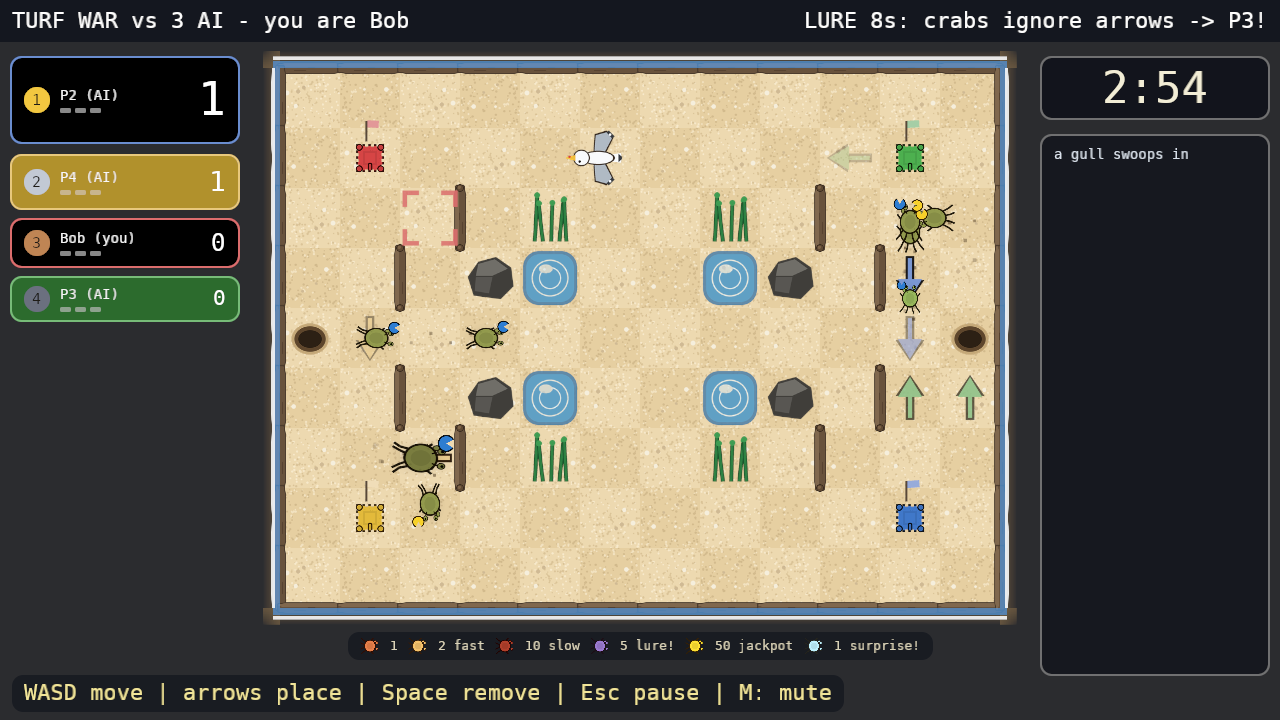
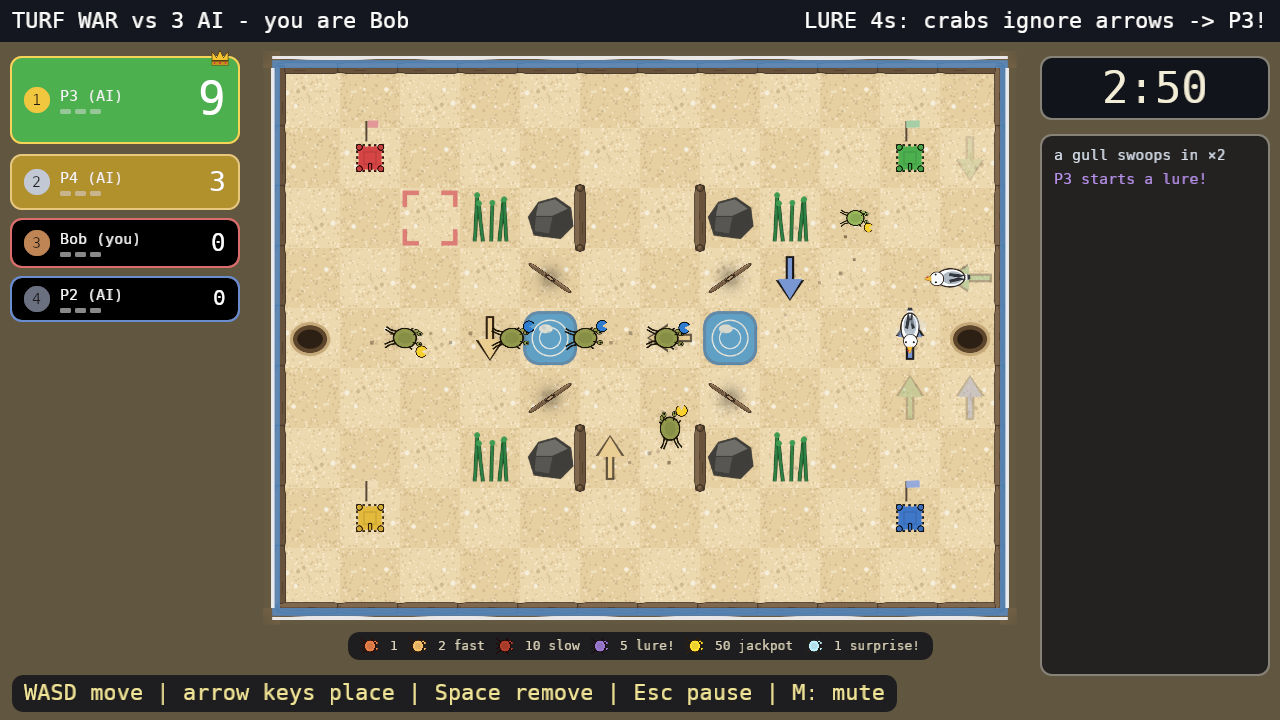
Retake the README's five pictures, and correct the two counts they contradicted
Every one of them predated the beach postcard, so the menu and the stage
list stood on a flat dark field the game no longer draws. The Old Mill
was the furthest behind: it still said "Signposts: 2/2" over a campaign
of 82, where the build says arrows and 110. Autoplay is deterministic, so
that one is framed on the same moment as the shot it replaces, three
seconds in with the crabs strung across the turnstile.

Turf War and the lure are a bots match on a fresh seed each run, so they
were taken until they said what their captions promise: a crowned
leaderboard over grown castles and a filled event feed for the one, six
crabs turned green and converging for the other. A thirty-second take of
Turf War caught a real lure banner across the whole board, which is the
right moment and the wrong picture.

Two lines then disagreed with the images beside them. The campaign has
been a hundred levels for a while and the README still said eighty-two;
the trophy shelf became fifty this morning and the README still said
thirty-two.

diff --git a/README.md b/README.md
@@ -132,7 +132,7 @@ wins.
 
 ![The landing menu: a still postcard with ambient beach critters](docs/screenshots/menu.png)
 
-- **Tide Pool**: an 82-level solo puzzle campaign with a fixed arrow
+- **Tide Pool**: a 100-level solo puzzle campaign with a fixed arrow
   inventory. The test suite proves every level solvable with the arrows
   given, and every level that needs an arrow unsolvable without them (the
   opening tutorial hands you one to practise with on a board that cannot
@@ -210,7 +210,8 @@ wins.
   (`F3`/`F4`).
 - **Daily Challenge**: one date-seeded arena per day, identical worldwide,
   with a local best.
-- **Achievements**: thirty-two trophies and lifetime stats.
+- **Achievements**: fifty trophies and lifetime stats, on a shelf that
+  scrolls.
 
 ![The stage list: cleared stages filled gold, and every tile edged by how many arrows it grants](docs/screenshots/stages.png)
 
